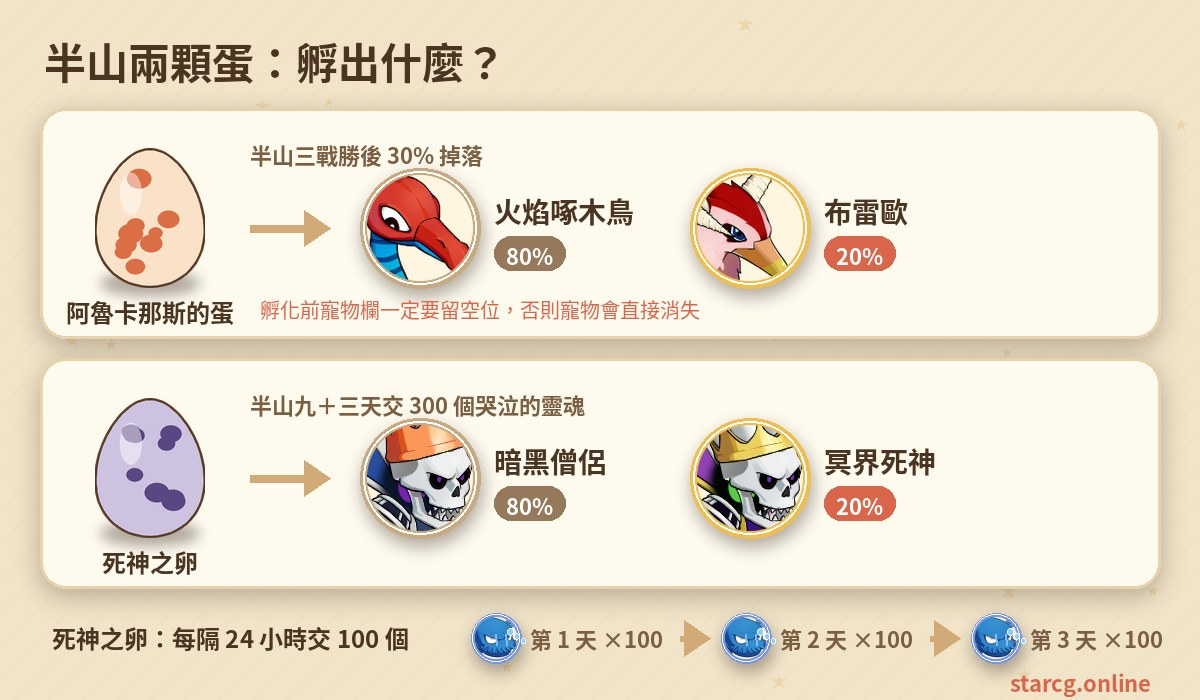
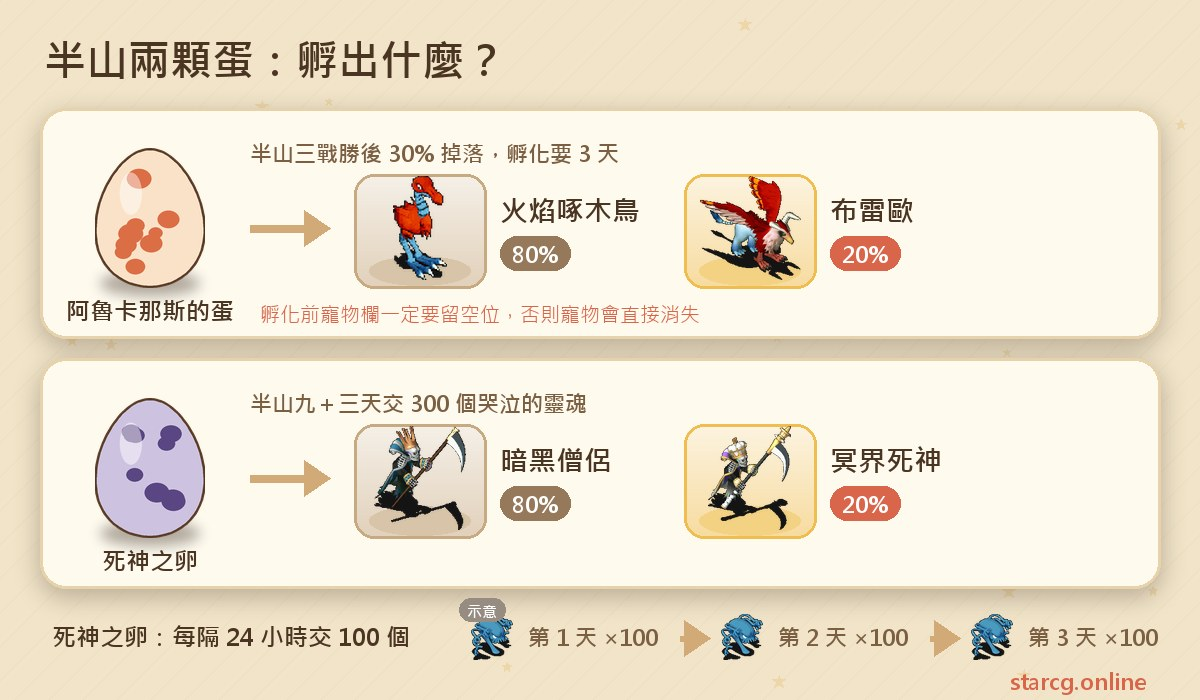
半山攻略插圖改用全身怪物圖，依攻略網校正 BOSS 與迷宮怪資料
Claude-Session: https://claude.ai/code/session_015zE4E5T7154vbHseJrngyz

diff --git a/src/posts/halfmountain-quest-guide.md b/src/posts/halfmountain-quest-guide.md
@@ -9,7 +9,7 @@ cover: img/halfmountain-quest-guide-cover.jpg
 
 > 本文整理自 [星詠魔力攻略網](https://guide.starcg.net/) 的半山系列頁面，並用我們自己的方式重新排序與改寫，沒有逐字照搬。BOSS 血量與數值是約略值，實際以遊戲內為準；遊戲更新後內容可能變動。
 
-![半山九個任務一覽，每章的重點與取得的稱號](img/halfmountain-quest-guide-flow.jpg)
+![半山任務九章一覽：半山一到半山九的推薦等級與取得稱號，以及各章會遇到的幽靈、水晶螃蟹、托羅帝鳥、狂奔鳥與修特、地獄守門人、芒等怪物](img/halfmountain-quest-guide-flow.jpg)
 
 ## 半山系列是什麼？先看整體順序
 
@@ -33,7 +33,7 @@ cover: img/halfmountain-quest-guide-cover.jpg
 
 半山系列最讓人頭痛的不是難打，而是「少帶一樣東西，全隊白跑一趟」。下面這張表把各章需要的東西集中在一起，建議截圖存起來。
 
-![出發前準備清單：星鰻飯糰、結界之鏈、神聖庇護之衣等](img/halfmountain-quest-guide-prep.jpg)
+![半山任務出發前準備清單：海德的好運符、星鰻飯糰、暗號、結界之鏈、神聖庇護之衣、冥界之雨，旁邊是路上會遇到的幽靈、水晶螃蟹、火焰啄木鳥](img/halfmountain-quest-guide-prep.jpg)
 
 有幾個東西靠自己做太花時間，可以直接去市場買。星鰻飯糰、神聖庇護之衣、結界之鏈都是可以交易的道具，用本站的 [市場查價](/market/) 輸入名稱就能看到目前的攤位價格；整隊都需要的話，用批次採購一次排好路線最省時間。
 
@@ -42,13 +42,13 @@ cover: img/halfmountain-quest-guide-cover.jpg
 這是整個系列的起點，條件 50 級，推薦 60 級。
 
 1. 到法蘭城謝里雅堡 1 樓，找**士兵海德**（81, 18）對話，領到任務道具「海德的好運符」。
-2. 等到夜晚或黃昏，前往**蒂娜村**（64, 51），與**亡魂**對話開戰。白天進村的話，要出村再進村等時間切到黃昏或夜晚。
+2. 等到夜晚或黃昏，前往**蒂娜村**，與**亡魂**（64, 51）對話開戰。白天進村的話，要出村再進村等時間切到黃昏或夜晚。
 3. 打贏之後再跟亡魂說一次話，拿到「修特的項鍊」。
 4. 回到謝里雅堡 1 樓交給海德，完成。
 
-**要注意的地方**：好運符要**全隊每個人都有**，只要有一個人沒拿，就無法開戰。亡魂本人 70 級、約一萬血，還會召喚 84 級的被喚醒亡魂，比推薦等級高，等級不夠建議帶有控制技能的隊員。打完之後可以直接接半山二。
+**要注意的地方**：好運符要**全隊每個人都有**，只要有一個人沒拿，就無法開戰。亡魂本人 70 級、約一萬血，抗咒且一回合行動兩次；身邊還有 4 隻 84 級、約五千血的被喚醒的亡魂（不抗咒），攻略網另註明戰鬥中會追加召喚 4 隻幽靈。敵人等級都比推薦等級高，等級不夠建議帶有控制技能的隊員。打完之後可以直接接半山二。
 
-![半山一：蒂娜村夜晚的亡魂 Lv70，比推薦等級還高，被打到哭也不奇怪](img/halfmountain-quest-guide-ghost.jpg)
+![半山一徬徨的亡靈：蒂娜村夜晚，70 級、約一萬血的亡魂帶著 4 隻 84 級被喚醒的亡魂把角色打哭，全隊都要有海德的好運符才能開戰](img/halfmountain-quest-guide-ghost.jpg)
 
 ## 半山二：亡者之鎮（第一次碰到 10,000G）
 
@@ -57,10 +57,10 @@ cover: img/halfmountain-quest-guide-cover.jpg
 3. 在船上**等約 10 分鐘**，再找守信的水手，交出止吐藥，傳到小島。
 4. 找**瑞娜的父親**（70, 81），**選「否」**，交出項鍊的情報換「巧克力」；再找**羅伯尼克博士**（59, 78）換「金屬探測器」。
 5. 隊伍中一人到**酒吧老闆**（55, 81）花 10,000G 買 1 個**星鰻飯糰**（也可以向玩家買）。
-6. 持有飯糰的隊員找**覓食的水龍蜥**（82, 20），之後全隊進入達爾文海海底，通過約 12 層的隨機迷宮。
+6. 持有飯糰的隊員找**覓食的水龍蜥**（82, 20），之後全隊進入達爾文海海底，通過約 12 層的隨機迷宮（會遇到 49～59 級的水龍蜥、水晶螃蟹、蜥蜴鬥士）。
 7. 到深海秘窟，找**深海領主**開戰。贏了之後交出金屬探測器，換到機器零件，傳回小島，再交給博士，領「博士的腕輪」。
 
-**打法**：深海領主（75 級、約一萬五千血）輸出很高，旁邊的水晶螃蟹輸出較低，集中火力先解決領主最穩。**完成後不要急著回城**，直接在原地再找羅伯尼克博士，就能接上半山三的第一步。
+**打法**：深海領主（75 級、約一萬五千血）輸出很高，旁邊的 6 隻水晶螃蟹（65 級、約兩千血）輸出較低，集中火力先解決領主最穩。**完成後不要急著回城**，直接在原地再找羅伯尼克博士，就能接上半山三的第一步。
 
 ## 半山三：聖鳥之謎（真正打開半山腰）
 
@@ -70,13 +70,13 @@ cover: img/halfmountain-quest-guide-cover.jpg
 2. 找**瑞娜**（10, 13），**輸入關鍵字「阿魯卡那斯」**，拿到「匆忙寫下的筆錄」，傳回小島。
 3. 回法蘭城圖書館找博學者交筆錄，換「鳥類大全」；再回小島找**村民**（78, 87），交鳥類大全換「暗號」。
 4. 每位隊員到酒吧老闆買 1 個星鰻飯糰（10,000G）。
-5. 小島（64, 46）走黃色傳送石進「通往山頂的路」，經過兩段隨機迷宮，抵達聖鳥之巢。
+5. 小島（64, 46）走黃色傳送石進「通往山頂的路」，經過兩段隨機迷宮（第一段會遇到 59～65 級的托羅帝鳥、岩地跑者、火焰啄木鳥、狂奔鳥；第二段從半山腰 78, 52 進入），抵達聖鳥之巢。
 6. 找**聖鳥的子嗣**（14, 11），**輸入「我是來送鰻魚飯的」**，交出飯糰，傳到聖山之巔。
 7. 找**阿魯卡那斯**（23, 32）開戰，贏了再對話，領稱號與聖鳥之羽。
 
 **BOSS 資料**：阿魯卡那斯 80 級、約一萬五千血，會用「超強遺忘魔法」，身邊還有 60 級的阿魯卡那斯之子。攻略網的建議很實用：先清小怪再打大王，小怪不抗咒，咒術師的控制技能很好用；為了防遺忘，可以到冒險者旅館（216, 53）找寵物技能店的佩蒂（30, 20）多學幾個攻擊技能備用。
 
-**兩個小提醒**：戰勝後有 30% 機率掉**阿魯卡那斯的蛋**，孵出火焰啄木鳥（80%）或布雷歐（20%）；孵之前**寵物欄一定要留空位**，否則寵物會直接消失。另外，關鍵字打錯或沒有暗號，NPC 都不會回應，卡在這裡的人不少。
+**兩個小提醒**：戰勝後有 30% 機率掉**阿魯卡那斯的蛋**，孵化要 3 天，孵出火焰啄木鳥（80%）或布雷歐（20%）；孵之前**寵物欄一定要留空位**，否則寵物會直接消失。另外，關鍵字打錯或沒有暗號，NPC 都不會回應，卡在這裡的人不少。
 
 做完半山三，就可以走半山腰練功路線了。想知道練功點怎麼選，可以搭配我們的 [傷害計算機](/damage/) 估一下隊伍輸出夠不夠。
 
@@ -103,14 +103,14 @@ cover: img/halfmountain-quest-guide-cover.jpg
 
 **重點**：36 層是半山系列最長的一段路，全程都是隨機迷宮，每次樓梯位置都不一樣。這種時候用我們的 [迷宮找樓梯](/maze/) 工具會輕鬆很多，連結一次遊戲資料夾，走到哪裡地圖就畫到哪裡，樓梯一出現就標好座標。如果身上還有鋤頭，要先丟掉才能重新換。
 
-![半山各段隨機迷宮層數比較：海底約 12 層、小島 19 層、地獄 36 層、半山八合計 108 層](img/halfmountain-quest-guide-maze.jpg)
+![半山任務隨機迷宮層數比較：半山二海底約 12 層（水龍蜥、蜥蜴鬥士）、小島山路 19 層（托羅帝鳥、狂奔鳥）、半山六地獄 36 層、半山八合計 108 層](img/halfmountain-quest-guide-maze.jpg)
 
 ## 半山七：結界之鏈（備料任務）
 
 結界之鏈是 Lv.9 項鍊，攻擊 +30、敏捷 +12、精神 +8、必殺 +7 等，後面的半山八每個人都要有一條，而且做好後**不會消耗**。
 
 1. **夜晚**到法蘭城南門附近（167, 223）找**見習結界師之魂**，拿到「結界師的需求清單」。
-2. 備齊材料：非常優良的騎士寶石 Lv.8 ×1、非常優良的綠寶石 Lv.8 ×2、流星 ×1、聖鳥之羽（任何耐久）×1。
+2. 備齊材料：非常優良的騎士寶石 Lv.8、非常優良的綠寶石 Lv.8 ×2、流星、聖鳥之羽（任何耐久）；除了綠寶石，其他材料的數量攻略網未列出。
 3. 夜晚再回去找同一個 NPC 交付，領到結界之鏈。
 
 寶石可以開寶箱、向玩家買或做四屬性洞窟任務取得；流星來自流星山丘任務；聖鳥之羽就是半山三的獎勵。攻略網也提醒：**如果有朋友能借你、或市場上買得到，這章可以直接跳過**，別為了一條鏈花太多時間。
@@ -119,26 +119,26 @@ cover: img/halfmountain-quest-guide-cover.jpg
 
 推薦 90 級，這是整個系列難度最高的一章之一。每個人需要**結界之鏈**與**神聖庇護之衣**。
 
-神聖庇護之衣可以自製：用 8 級技能在小島採集閃亮的珍珠（狩獵，66, 9）、古藤（伐木，73, 98）、稀有金屬（挖掘，95, 45）各 10 個，找**神官魯因**（60, 81）兌換；也可以直接向玩家買。
+神聖庇護之衣可以自製：在小島採集閃亮的珍珠（狩獵，66, 9）、古藤（伐木，73, 98）、稀有金屬（挖掘 8 級，95, 45）各 10 個，找**神官魯因**（60, 81）兌換；也可以直接向玩家買。
 
 流程摘要：持結界之鏈找祭司傳到小島→走黃色傳送石→調查薄冰（81, 55）→走綠色傳送石下地獄（36 層）→找**瑞娜的幻象**（24, 25）→風、火、土、水四個地獄各打一個 18 層迷宮，最後挑戰守門人→取得四種冥界聯結石→找瑞娜換冥界聯結石並傳到冥界表→爬到塔頂（573, 37）找阿魯卡那斯（682, 19）開戰。
 
-**BOSS 資料**：四位守門人都是 95 級、約三萬五千血，各自會用超強混亂、中毒、石化、昏睡魔法，加上戰慄襲心與明鏡止水。最後的阿魯卡那斯傷害極高，頁面建議有物理制禦巫術（攻擊反彈、無效、吸收）的話可以對自己無限施放，並搭配寵物護衛。贏了之後得到稱號「死神的降臨」與**冥界之雨**。
+**BOSS 資料**：風、火、土、冰四位地獄守門人都是 95 級、約三萬五千血、抗咒，分別會用超強混亂、中毒、石化、昏睡魔法，加上戰慄襲心與明鏡止水。最後的阿魯卡那斯等級與血量攻略網未列出，只寫傷害極高、會自然反擊，頁面建議有物理制禦巫術（攻擊反彈、無效、吸收）的話可以對自己無限施放，並搭配寵物護衛。贏了之後得到稱號「死神的降臨」與**冥界之雨**。
 
 **冥界之雨不要丟**，下一章還要用到。
 
-![半山 BOSS 圖鑑：亡魂、深海領主、阿魯卡那斯、修特、四大守門人、死神的僕從與芒的等級血量](img/halfmountain-quest-guide-boss.jpg)
+![半山任務 BOSS 圖鑑：亡魂、深海領主、阿魯卡那斯、修特、風火土冰四大地獄守門人、死神的僕從與芒的等級、血量與技能](img/halfmountain-quest-guide-boss.jpg)
 
 ## 半山九：死與新生（死神稱號與死神之卵）
 
 1. 用冥界之雨傳到冥界，調查**死亡石碑**（377, 422）進冥界之森。
 2. 調查**死神的點火台**（5, 11）取得「冥炎的火把」，走到（20, 10）找**死神的僕從**開戰（100 級、約一萬血，會超強即死魔法）。
-3. 戰後調查（216, 356）進入死神的搖籃，找**芒**（49, 6）開戰。芒是 100 級、約四萬五千血，技能非常多，包含即死魔法、魔法封印、超強遺忘魔法。
+3. 戰後調查（216, 356）進入死神的搖籃，找**芒**（49, 6）開戰。芒是 100 級、約四萬五千血，技能非常多，包含即死魔法、魔法封印（會不斷使用）、超強遺忘魔法；同場還有 1 隻 80 級、約一萬三千血的「瑞納？」和 6 隻約六千血的「瑞納？」，會用四屬性強力魔法、聖盾與全體潔淨。
 4. 打贏後找**荷特普**（22, 19）交出冥界之雨，得到「飢餓的死神之卵」，同時獲得稱號「死神」，並失去先前半山系列的稱號（成就仍計算）。
 
 **孵化要花三天**：用死神之卵傳到冥界，打遊蕩靈魂收集 100 個**哭泣的靈魂**交給荷特普；每次要隔 24 小時，一共三次、共 300 個，第三次交出後拿到**死神之卵**，使用後隨機孵出暗黑僧侶（80%）或冥界死神（20%）。哭泣的靈魂不能交易、丟地或存銀行，記得寵物欄留空位。完成孵化前不能重新接任務，這個時間要先規劃好。
 
-![阿魯卡那斯的蛋與死神之卵可以孵出的寵物與機率](img/halfmountain-quest-guide-egg.jpg)
+![半山任務兩顆蛋：阿魯卡那斯的蛋孵出火焰啄木鳥 80%、布雷歐 20%，死神之卵孵出暗黑僧侶 80%、冥界死神 20%，以及三天交哭泣的靈魂的流程](img/halfmountain-quest-guide-egg.jpg)
 
 ## 半山系列常見問題
 
